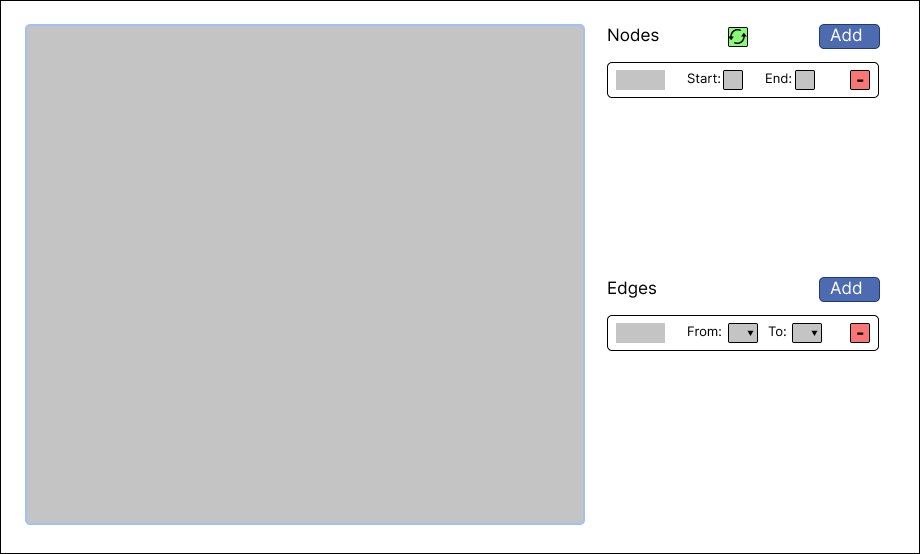
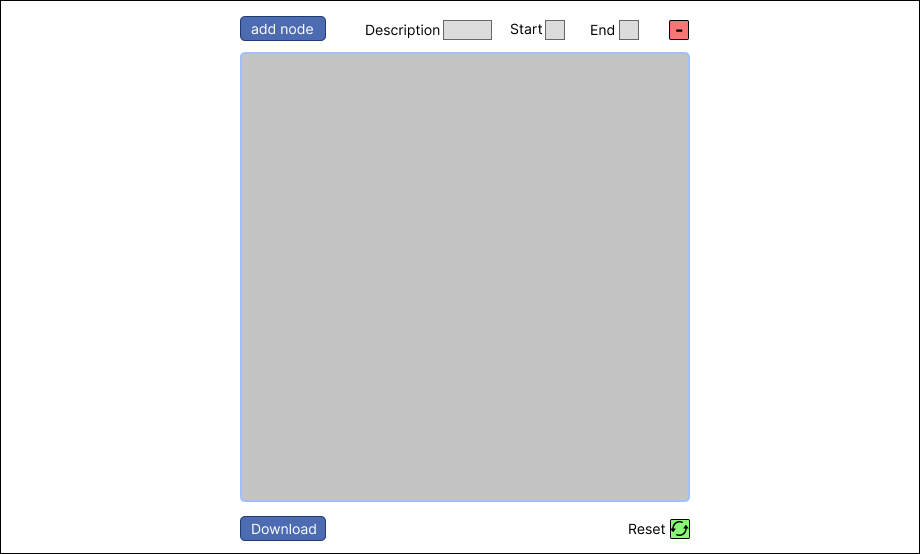
started new UI

diff --git a/movable.js b/movable.js
@@ -33,13 +33,13 @@ const ACTION = {
 // used to give every element an unique id
 let highestId = 0;
 let graph = {};
+let svg;
 
 function main() {
     // find the svg to draw in
-    elements = document.getElementsByTagName("svg");
-    console.assert(elements.length > 0, "svg not found");
-    svg = elements[0]
+    svg = document.getElementsByTagName("svg")[0];
 
+    // init the svg
     resetSVG();
 
     document.addEventListener("keydown", handleKeyEvent);
@@ -363,7 +363,7 @@ function buildNode(id) {
     // create the text
     const textNode = getTextNode(node.coords, node.desc, true);
     container.appendChild(textNode);
-
+    
     svg.appendChild(container);
 }
 
@@ -379,8 +379,11 @@ function buildLines(id) {
             id: `path_${id}-${nodeId}`
         })
 
-        // initially the lines are straight
-        let dValue = `M${coords.x} ${coords.y} L${otherCoords.x} ${otherCoords.y}`;
+        // create line
+        const middle = getMiddleOfVector(coords, otherCoords);
+        const normalVector = getUnitVector(getNormalVector(coords, otherCoords));
+        const dist = node.to[otherNode].offset;
+        let dValue = `M${coords.x} ${coords.y} Q${middle.x + normalVector.x * dist} ${middle.y + normalVector.y * dist} ${otherCoords.x} ${otherCoords.y}`;
 
         // self-edge
         if (id == nodeId) {
@@ -409,8 +412,8 @@ function buildLines(id) {
             const middle = getMiddleOfVector(node.coords, otherCoords);
             const offset = node.to.find(e => e.node == nodeId).textOffset;
             const textCoords = {
-                x: middle.x + normalVector.x * offset,
-                y: middle.y + normalVector.y * offset
+                x: middle.x + normalVector.x * (dist / 2 + offset),
+                y: middle.y + normalVector.y * (dist / 2 + offset)
             }
 
             const textNode = getTextNode(textCoords, node.to[otherNode].desc, true);

diff --git a/styles/style.css b/styles/style.css
@@ -1,5 +1,10 @@
 body {
     font-family: 'Open Sans', sans-serif;
+    font-size: 0.9rem;
+}
+
+p {
+    font-size: 1rem;
 }
 
 main {
@@ -11,13 +16,15 @@ main {
     display: flex;
     align-items: center;
     justify-content: center;
+
+    flex-direction: column;
 }
 
 svg {
-    min-width: 90vmin;
-    min-height: 90vmin;
-    width: 90vmin;
-    height: 90vmin;
+    min-width: 80vmin;
+    min-height: 80vmin;
+    width: 80vmin;
+    height: 80vmin;
 
     background-color: rgb(235, 235, 235);
     border: 1px solid rgb(163, 192, 246);
@@ -31,6 +38,40 @@ img {
     border: 1px solid black;
 
     cursor: pointer;
+}
+
+button {
+    color: white;
+    background-color: #4D6BB0;
+    border: 1px solid #213A73;
+    border-radius: 5px;
+
+    width: 12%;
+    height: 35%;
+}
+
+button:active {
+    background-color: #354E87;
+}
+
+#top, #bottom {
+    height: 10vmin;
+    min-height: 10vmin;
+    width: 80vmin;
+
+    display: flex;
+    align-items: center;
+}
+
+#bottom {
+    justify-content: space-between;
+}
+
+#resetContainer {
+    display: flex;
+    align-items: center;
+
+    gap: 0.5rem;
 }
 
 .draggable {

diff --git a/index.html b/index.html
@@ -16,7 +16,18 @@
 
 <body>
   <main>
+    <div id="top">
+      <button id="addButton">add node</button>
+      <div class="flow-right"></div>
+    </div>
     <svg xmlns="http://www.w3.org/2000/svg" viewBox="0 0 100 100" onload="makeDraggable(evt)"></svg>
+    <div id="bottom">
+      <button id="downloadButton">Download</button>
+      <div id="resetContainer">
+        <p>Reset</p>
+        <img src="img/reload.svg" alt="reload_img">
+      </div>
+    </div>
   </main>
   <a onclick="downloadSVG()">Download</a>
 </body>

diff --git a/README.md b/README.md
@@ -7,6 +7,7 @@ In general, NFAs, DFAs and TMs should be supported.
 - Labels on nodes
 - Multiple lines on edge labels
 - Text offset on self edges
+- Select elements after creation
 
 ## Bugs
 - Deleting nodes leaves the edges
